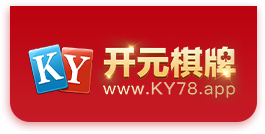
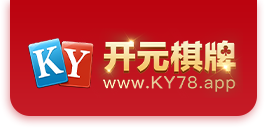
pc

diff --git a/kkqp/indexpc.html b/kkqp/indexpc.html
@@ -57,17 +57,17 @@
     }
 
     .top {
-      width: 1920px;
-      max-width: 1920px;
+      width: 1200px;
       height: 627px;
       position: relative;
+      margin: 0 auto;
     }
 
     .logo {
       width: 265px;
-      height: 134px;
+      height: 128px;
       top: 0;
-      left: 463px;
+      left: 78px;
       background-image: url(./images/pc.png);
       position: absolute;
     }
@@ -78,7 +78,7 @@
       background-image: url(./images/top.png);
       position: absolute;
       top: 83px;
-      right: 146px;
+      left: 460px;
     }
 
     .off-website {
@@ -86,7 +86,7 @@
       height: 78px;
       position: absolute;
       top: 525px;
-      right: 422px;
+      right: 58px;
     }
 
     .off-website a {
@@ -96,8 +96,7 @@
     }
 
     .main {
-      width: 1920px;
-      max-width: 1920px;
+      width: 1359px;
       margin: 0 auto;
       /* margin-top: 627px; */
     }
@@ -290,7 +289,7 @@
     <div class="top">
       <div class="logo"></div>
       <div class="top-ban"></div>
-      <div class="off-website"><a href="" id="Toh5"><img src="./images/gw.png" alt=""></a></div>
+      <!-- <div class="off-website"><a href="" id="Toh5"><img src="./images/gw.png" alt=""></a></div> -->
     </div>
     <div class="main">
       <div class="mt-tabpage" js-tab="3">
@@ -424,7 +423,7 @@
   }
   var json2 = {
     el1: el2,
-    url1: location.origin + 'index.html',
+    url1: location.origin + '/index.html',
     size1: 189
   }
   createDownloadQRCode(json1)
